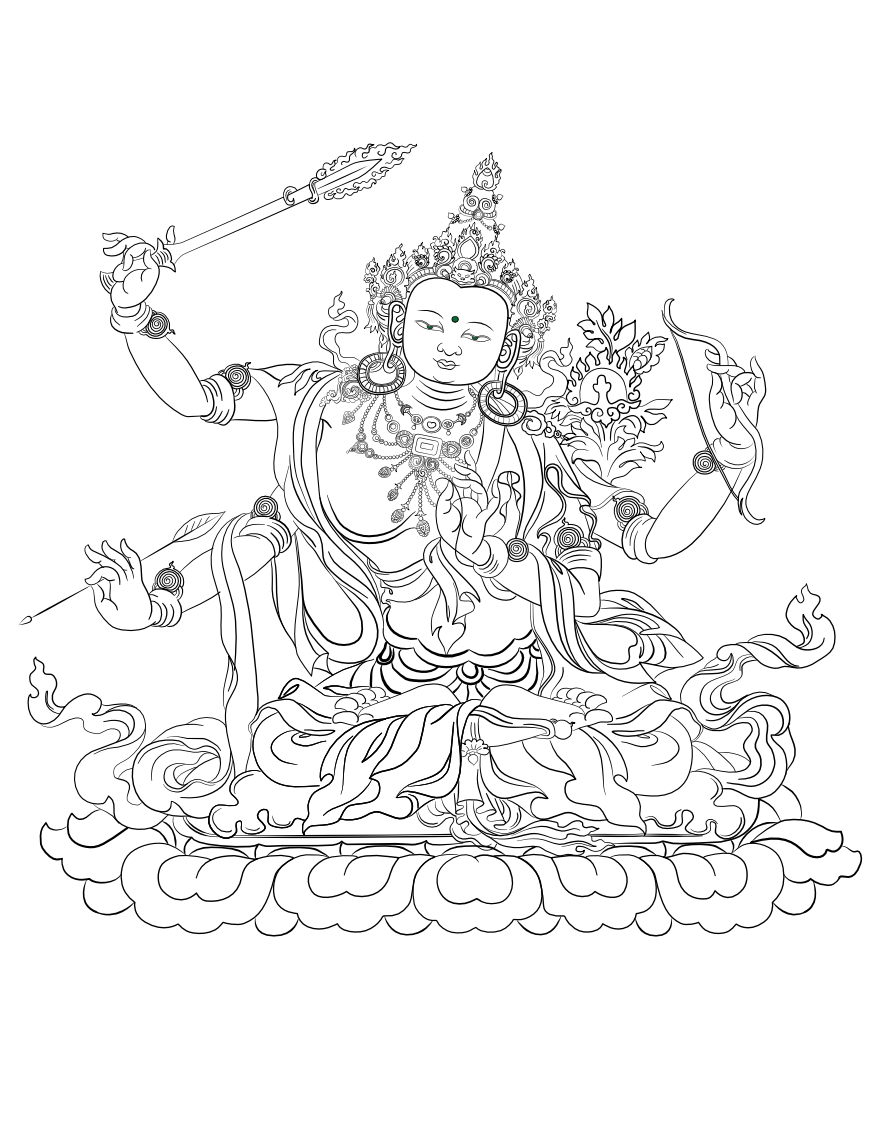
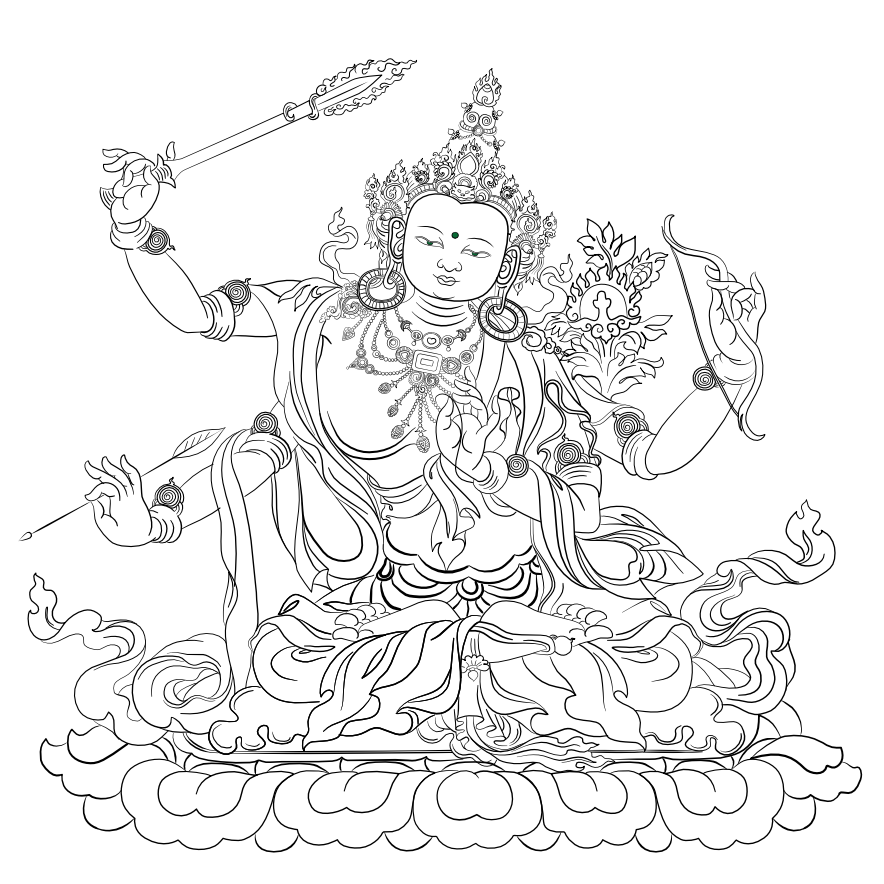
Manjushri img on ios

diff --git a/pages/index.vue b/pages/index.vue
@@ -4,7 +4,7 @@
       class="container mb-2 mx-auto px-8 w-full mt-4 md:mt-12 flex flex-wrap justify-evenly"
     >
       <div class="flex-initial w-2/3 md:w-1/3 flex">
-        <img src="/images/manj.png" alt="logo" class="" />
+        <img src="/images/manj.png" id="image" alt="logo" class="w-full h-full"/>
       </div>
       <div class="flex-2 flex flex-col justify-center w-full md:w-2/3 py-6 md:pl-9">
         <h1
@@ -76,5 +76,9 @@ export default {
 <style scoped>
 a {
   text-decoration: none;
+}
+.image {
+  width: 100%;
+  height: 100%;
 }
 </style>
